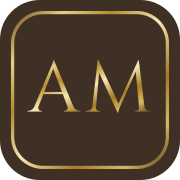
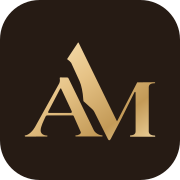
Add files via upload

Changed region(s): [[0.1389, 0.2222, 0.8611, 0.7778], [0.0556, 0.0556, 0.9444, 0.9444]]

diff --git a/src/app/admin/layout.tsx b/src/app/admin/layout.tsx
@@ -3,6 +3,7 @@ import Link from 'next/link';
 import { redirect } from 'next/navigation';
 import { ExternalLink } from 'lucide-react';
 import { AdminNav } from '@/components/admin/AdminNav';
+import { Monogram } from '@/components/layout/Logo';
 import { getSessionUser, isAdmin } from '@/lib/auth';
 import { isDatabaseConfigured } from '@/lib/prisma';
 
@@ -22,8 +23,8 @@ export default async function AdminLayout({ children }: { children: React.ReactN
     <div className="min-h-screen bg-cream">
       <header className="border-b border-line bg-white">
         <div className="mx-auto flex h-16 max-w-7xl items-center justify-between px-4 sm:px-6 lg:px-8">
-          <Link href="/admin/dashboard" className="flex items-baseline gap-3">
-            <span className="font-logo text-xl tracking-[0.25em]">AM</span>
+          <Link href="/admin/dashboard" className="flex items-center gap-3" aria-label="AM Fragrances admin">
+            <Monogram title={null} className="h-8 w-auto text-logo" />
             <span className="text-sm font-semibold uppercase tracking-widest text-muted">Admin</span>
           </Link>
           <div className="flex items-center gap-4 text-sm">

diff --git a/src/app/global-error.tsx b/src/app/global-error.tsx
@@ -1,5 +1,7 @@
 'use client';
 
+import { Monogram } from '@/components/layout/Logo';
+
 // Last-resort boundary for errors in the root layout itself.
 export default function GlobalError({ reset }: { error: Error & { digest?: string }; reset: () => void }) {
   return (
@@ -7,7 +9,9 @@ export default function GlobalError({ reset }: { error: Error & { digest?: strin
       <body style={{ margin: 0, fontFamily: 'system-ui, sans-serif', background: '#FAF8F2', color: '#1C1916' }}>
         <div style={{ minHeight: '100vh', display: 'grid', placeItems: 'center', padding: 24, textAlign: 'center' }}>
           <div>
-            <p style={{ letterSpacing: '0.3em', fontSize: 28, margin: 0 }}>AM</p>
+            <div style={{ width: 64, margin: '0 auto', color: '#9A7536' }}>
+              <Monogram />
+            </div>
             <h1 style={{ fontSize: 24, margin: '16px 0 8px' }}>Something went wrong</h1>
             <p style={{ color: '#6F665C', margin: '0 0 24px' }}>Please refresh the page or try again in a moment.</p>
             <button
